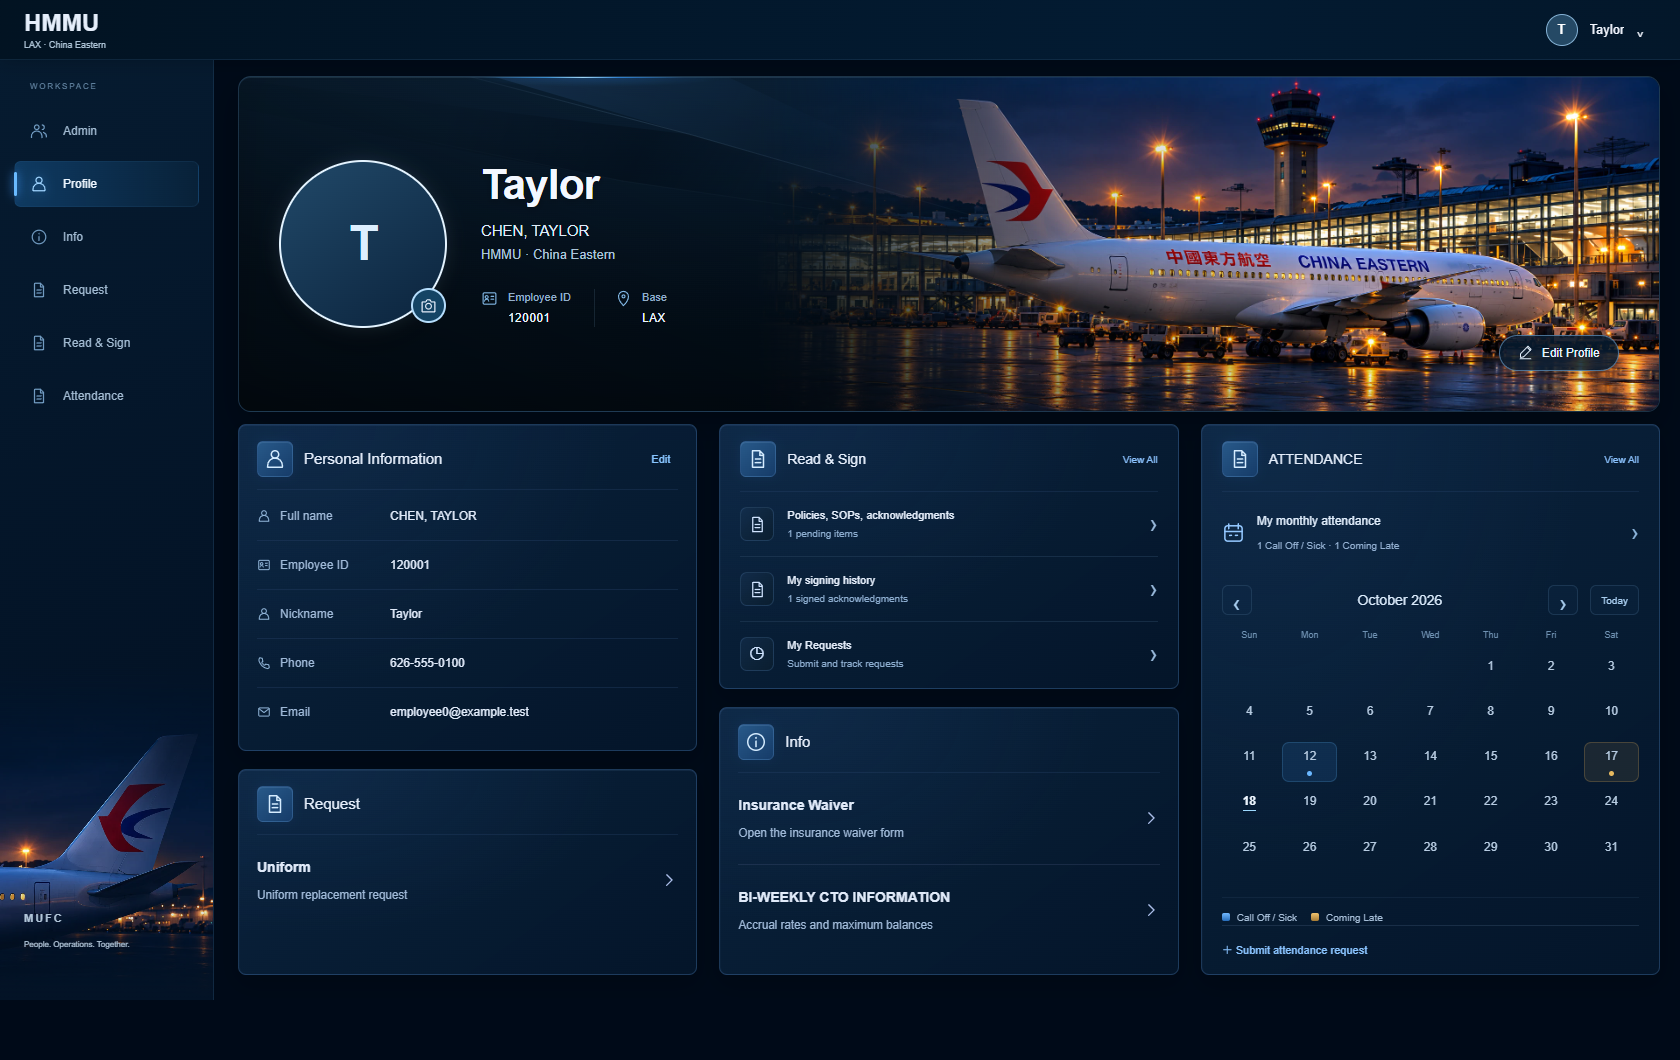
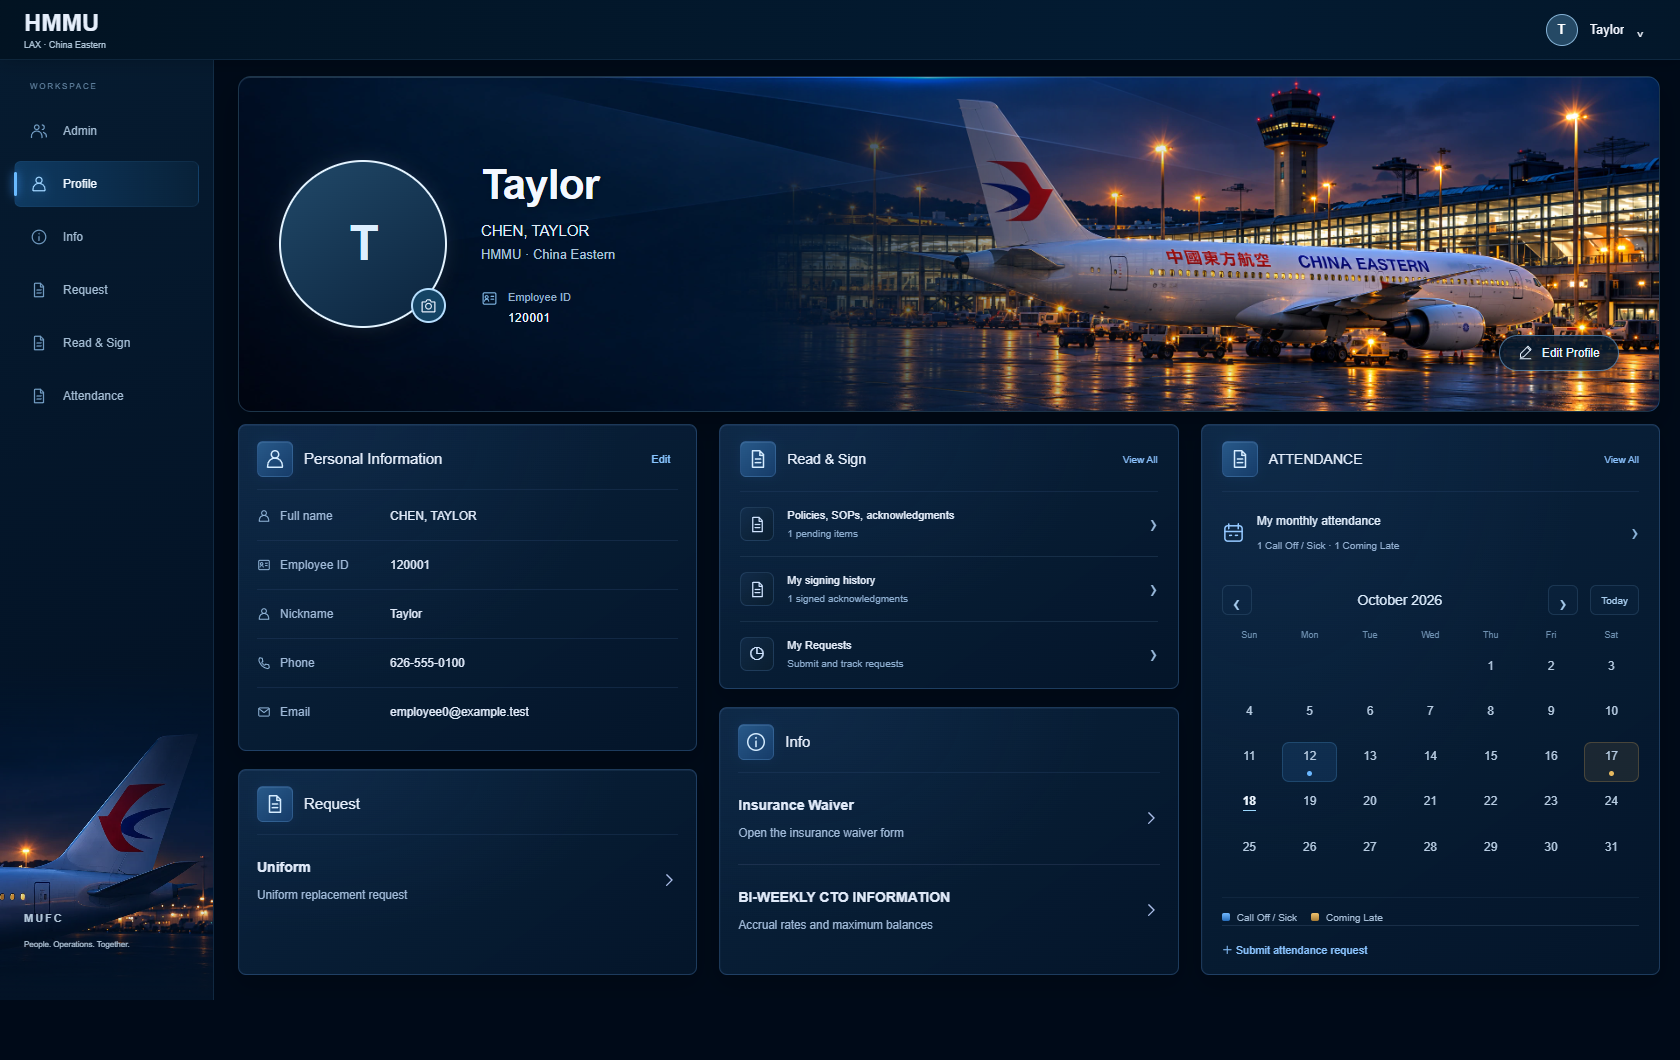
Allow own-stage uniform approvals and refine profile background

diff --git a/test/uniformRequests.test.js b/test/uniformRequests.test.js
@@ -8,7 +8,9 @@ test('server snapshots identity, LA date and flow; enforces sequential distinct 
 test('workflow is admin-only, versioned, ends with Manager and changes only new requests',t=>{const {store,users}=fixture(t),admin={email:'lake@mu.com'};const old=store.create(users[0],body());assert.throws(()=>store.saveWorkflow(users[1],{revision:1,stages:['Manager']}),e=>e.status===403);assert.throws(()=>store.saveWorkflow(admin,{revision:1,stages:['Lead']}),/ending/);assert.throws(()=>store.saveWorkflow(admin,{revision:0,stages:['Manager']}),e=>e.status===409);store.saveWorkflow(admin,{revision:1,stages:['Lead','Supervisor','Manager']});assert.deepEqual(store.get(old.id).stages,['Supervisor','Manager']);assert.deepEqual(store.create(users[0],body()).stages,['Lead','Supervisor','Manager']);});
 test('reject needs a reason; rejects malformed quantities and denies cross-employee reads',t=>{const {store,users}=fixture(t);let b=body();b.items[0].pieces=-1;assert.throws(()=>store.create(users[0],b),/Quantities/);b=body();b.items[0].size='';assert.throws(()=>store.create(users[0],b),/size/);b=body();b.items[0].pieces='';assert.throws(()=>store.create(users[0],b),/at least/);const r=store.create(users[0],body());assert.throws(()=>store.read(users[3],r.id),e=>e.status===403);assert.throws(()=>store.decide(users[1],r.id,{revision:1,action:'reject'}),/rejection reason/);assert.equal(store.decide(users[1],r.id,{revision:1,action:'reject',note:'Wrong size'}).status,'rejected');assert.equal(store.list(users[2]).requests.length,0);});
 test('positions persist through profile edits and invalid positions are rejected',async t=>{const {employees,profiles,users}=fixture(t);const revision=employees.get().revision;await profiles.update(users[2],{revision,phone:'6265551234'});assert.equal(employees.get().employees[2].position,'Manager');const data=employees.get();data.employees[0].position='Admin';assert.throws(()=>employees.save(data,{email:'lake@mu.com'}),/position/);});
-test('approvers cannot approve themselves or use multiple positions; final email is required',t=>{const {employees,store,users}=fixture(t);const own=store.create(users[1],body());assert.throws(()=>store.decide(users[1],own.id,{revision:1,action:'approve'}),e=>e.status===403);const r=store.create(users[0],body());store.decide(users[1],r.id,{revision:1,action:'approve'});let data=employees.get();data.employees[1].position='Manager';data.employees[2].companyEmail='';employees.save(data,{email:'lake@mu.com'});assert.throws(()=>store.decide(users[1],r.id,{revision:2,action:'approve'}),e=>e.status===403);assert.throws(()=>store.decide(users[2],r.id,{revision:2,action:'approve'}),/company email/);});
+test('approvers may approve their own assigned stage, but cannot repeat participation; final email is required',t=>{const {employees,store,users}=fixture(t);const own=store.create(users[1],body());assert.equal(store.read(users[1],own.id).canReview,true);assert.equal(store.decide(users[1],own.id,{revision:1,action:'approve'}).step,1);const r=store.create(users[0],body());store.decide(users[1],r.id,{revision:1,action:'approve'});let data=employees.get();data.employees[1].position='Manager';data.employees[2].companyEmail='';employees.save(data,{email:'lake@mu.com'});assert.throws(()=>store.decide(users[1],r.id,{revision:2,action:'approve'}),e=>e.status===403);assert.throws(()=>store.decide(users[2],r.id,{revision:2,action:'approve'}),/company email/);});
 test('HTTP auth, premature PDF protection, durable retry and approved original PDF',async t=>{const f=fixture(t),app=require('express')();let attempts=0;const service=registerUniform(app,{...f,authenticate:async req=>{const user=f.users.find(u=>req.headers.authorization==='Bearer '+u.uid);if(!user)throw Error('unauthorized');return user;},notify:async()=>{},send:async(r,pdf)=>{attempts++;assert.equal(r.manager.email,'manager@company.example.com');assert.equal(pdf.subarray(0,4).toString(),'%PDF');if(attempts===1)throw Error('offline');}});t.after(service.close);const server=app.listen(0,'127.0.0.1');await new Promise(r=>server.once('listening',r));t.after(()=>server.close());const base='http://127.0.0.1:'+server.address().port+'/uniform-api';const call=(path,who,body)=>fetch(base+path,{method:body?'POST':'GET',headers:{Authorization:'Bearer '+who,'Content-Type':'application/json'},...(body?{body:JSON.stringify(body)}:{})});assert.equal((await call('','bad')).status,401);assert.equal((await call('/workflow','e0')).status,403);let response=await call('','e0',body()),r=await response.json();assert.equal((await call('/'+r.id+'/pdf','e0')).status,409);await call('/'+r.id+'/decision','e1',{revision:1,action:'approve'});await call('/'+r.id+'/decision','e2',{revision:2,action:'approve'});await service.deliver(r.id).catch(()=>{});await service.deliver(r.id);assert.equal(attempts,2);await service.deliver(r.id);assert.equal(attempts,2);response=await call('/'+r.id+'/pdf','e2');assert.equal(response.status,200);const bytes=Buffer.from(await response.arrayBuffer());const pdf=await require('../vendor/pdf-lib/pdf-lib').PDFDocument.load(bytes);assert.equal(pdf.getPages().length,1);assert.equal(pdf.getPages()[0].getWidth(),612);assert.equal((await call('/'+r.id+'/pdf','e3')).status,403);});
 
 test('tie and scarf can be requested without garments and accept only bounded whole quantities',t=>{const {store,users}=fixture(t);const b=body();b.items[0]={size:'',pieces:'',order:'',reusable:'',nonReusable:''};b.tie=1;b.scarf=2;const r=store.create(users[0],b);assert.equal(r.tie,1);assert.equal(r.scarf,2);for(const value of [-1,100,1.5,'2'])assert.throws(()=>store.create(users[0],{...b,requestId:crypto.randomUUID(),tie:value}),/Tie and scarf/);});
+
+test('Manager can approve own request only after Supervisor review and appears in the route',t=>{const {store,users}=fixture(t);let r=store.create(users[2],body());assert.equal(r.canReview,false);assert.ok(r.approvalRoute[1].reviewers.some(p=>p.id==='e2'));assert.throws(()=>store.decide(users[2],r.id,{revision:1,action:'approve'}),e=>e.status===403);r=store.decide(users[1],r.id,{revision:1,action:'approve',note:'Supervisor checked'});const own=store.read(users[2],r.id);assert.equal(own.canReview,true);assert.ok(own.nextApprovers.some(p=>p.id==='e2'));r=store.decide(users[2],r.id,{revision:2,action:'approve',note:'Manager self approval'});assert.equal(r.status,'approved');assert.equal(r.manager.id,r.employee.id);assert.deepEqual(r.approvals.map(a=>a.note),['Supervisor checked','Manager self approval']);});

diff --git a/public/public/profile.html b/public/public/profile.html
@@ -1,6 +1,6 @@
 <!doctype html>
 <html lang="en"><head><meta charset="utf-8"><meta name="viewport" content="width=device-width,initial-scale=1"><title>MUFC · Profile</title>
-<link rel="stylesheet" href="/profile.css?v=20261018-header-sidebar"><link rel="stylesheet" href="/portal-cards.css?v=20261018-header-sidebar">
+<link rel="stylesheet" href="/profile.css?v=20261018-reference-background"><link rel="stylesheet" href="/portal-cards.css?v=20261018-header-sidebar">
 <script defer src="https://www.gstatic.com/firebasejs/10.12.2/firebase-app-compat.js"></script><script defer src="https://www.gstatic.com/firebasejs/10.12.2/firebase-auth-compat.js"></script><script defer src="/__/firebase/init.js"></script><script defer src="/employee-profile-api.js"></script><script defer src="/flight-account.js?v=20261017-profile-access"></script><script defer src="/employee-phone.js"></script><script defer src="/profile.js?v=20261017-profile-access"></script><link rel="stylesheet" href="/read-sign.css?v=20261018"><script defer src="/people-api.js?v=20261018"></script><script defer src="/attendance-calendar.js?v=20261018-calendar"></script><script defer src="/profile-modules.js?v=20261018"></script></head>
 <body class="profile-page">
 <svg class="profile-symbols" aria-hidden="true" xmlns="http://www.w3.org/2000/svg"><defs>
@@ -24,7 +24,7 @@
 <p id="profile-status" role="status" aria-live="polite">Loading your profile…</p>
 <section id="profile-link" class="profile-panel" hidden><h1>Link your employee record</h1><p>Enter your employee ID. If no record is found, please contact an administrator.</p><form id="profile-link-form"><label id="profile-eid-label">Employee ID / EID<input id="profile-eid" inputmode="numeric" pattern="[0-9]{1,12}" maxlength="12" required></label><dl id="profile-link-details"></dl><button class="profile-primary" type="submit">Find employee</button></form></section>
 <div id="profile-content" hidden>
-<section class="profile-hero" aria-label="Employee profile"><div class="profile-avatar-wrap"><img id="profile-avatar" alt="Your profile photo" hidden><span id="profile-initials" aria-hidden="true"></span><label class="avatar-edit" for="avatar-file" title="Change profile photo"><svg><use href="#icon-camera"/></svg><span class="sr-only">Change profile photo</span></label><input id="avatar-file" type="file" accept="image/png,image/jpeg,image/webp" hidden></div><div class="profile-identity"><h1 id="profile-display-name"></h1><p id="profile-full-name"></p><p class="profile-affiliation">HMMU · China Eastern</p><div class="profile-meta"><span><svg><use href="#icon-id"/></svg><span>Employee ID<strong id="profile-employee-id"></strong></span></span><span><svg><use href="#icon-pin"/></svg><span>Base<strong>LAX</strong></span></span></div></div><button type="button" class="profile-edit-link" id="edit-profile"><svg><use href="#icon-edit"/></svg>Edit Profile</button></section>
+<section class="profile-hero" aria-label="Employee profile"><div class="profile-avatar-wrap"><img id="profile-avatar" alt="Your profile photo" hidden><span id="profile-initials" aria-hidden="true"></span><label class="avatar-edit" for="avatar-file" title="Change profile photo"><svg><use href="#icon-camera"/></svg><span class="sr-only">Change profile photo</span></label><input id="avatar-file" type="file" accept="image/png,image/jpeg,image/webp" hidden></div><div class="profile-identity"><h1 id="profile-display-name"></h1><p id="profile-full-name"></p><p class="profile-affiliation">HMMU · China Eastern</p><div class="profile-meta"><span><svg><use href="#icon-id"/></svg><span>Employee ID<strong id="profile-employee-id"></strong></span></span></div></div><button type="button" class="profile-edit-link" id="edit-profile"><svg><use href="#icon-edit"/></svg>Edit Profile</button></section>
 <div class="profile-modules profile-dashboard"><div class="profile-personal-column"><section class="profile-panel personal-panel" aria-labelledby="personal-title"><div class="profile-panel-title"><span class="panel-icon"><svg><use href="#icon-person"/></svg></span><div><h2 id="personal-title">Personal Information</h2></div><button id="edit-personal" class="profile-text-button" type="button"><svg><use href="#icon-edit"/></svg>Edit</button></div>
 <dl class="profile-information"><div><dt><svg aria-hidden="true"><use href="#icon-person"/></svg>Full name </dt><dd id="view-full-name"></dd></div><div><dt><svg aria-hidden="true"><use href="#icon-id"/></svg>Employee ID <span>EID</span></dt><dd id="view-employee-id"></dd></div><div><dt><svg aria-hidden="true"><use href="#icon-person"/></svg>Nickname </dt><dd id="view-nickname"></dd></div><div><dt><svg aria-hidden="true"><use href="#icon-phone"/></svg>Phone </dt><dd id="view-phone"></dd></div><div class="information-email"><dt><svg aria-hidden="true"><use href="#icon-mail"/></svg>Email </dt><dd id="view-email"></dd></div></dl>
 

diff --git a/uniformRequests.js b/uniformRequests.js
@@ -14,12 +14,12 @@ function createUniformStore({employees,profiles,now=()=>new Date()}){
  const employee=user=>{const row=profiles.linked(user);if(!row)fail('Link your employee profile first.',403);return row;};
  const get=id=>{const row=db.prepare('SELECT data FROM uniform_requests WHERE id=?').get(id);if(!row)fail('Request not found.',404);return JSON.parse(row.data);};
  const put=r=>{db.prepare('UPDATE uniform_requests SET data=? WHERE id=?').run(JSON.stringify(r),r.id);return r;};
- const canReview=(r,e)=>r.status==='pending'&&r.stages[r.step]===e.position&&r.employee.id!==e.id&&!r.approvals.some(a=>a.employeeId===e.id);
+ const canReview=(r,e)=>r.status==='pending'&&r.stages[r.step]===e.position&&!r.approvals.some(a=>a.employeeId===e.id);
  const visible=(r,e)=>r.employee.id===e.id||canReview(r,e)||r.approvals.some(a=>a.employeeId===e.id)||r.manager?.id===e.id;
- const route=(stages,ownerId,approvals=[])=>stages.map(position=>({position,reviewers:employees.get().employees.filter(p=>p.name&&p.position===position&&p.id!==ownerId&&!approvals.some(a=>a.employeeId===p.id)).map(({id,name,position})=>({id,name,position}))}));
- const view=(r,e)=>({...r,approvalRoute:route(r.stages,r.employee.id,r.approvals),nextApprovers:r.status==='pending'?employees.get().employees.filter(person=>canReview(r,person)).map(({id,name,position})=>({id,name,position})):[],canReview:canReview(r,e),delivery: r.status==='approved'?(db.prepare('SELECT delivered FROM uniform_requests WHERE id=?').get(r.id).delivered?'sent':'pending'):undefined});
+ const route=(stages,approvals=[])=>stages.map(position=>({position,reviewers:employees.get().employees.filter(p=>p.name&&p.position===position&&!approvals.some(a=>a.employeeId===p.id)).map(({id,name,position})=>({id,name,position}))}));
+ const view=(r,e)=>({...r,approvalRoute:route(r.stages,r.approvals),nextApprovers:r.status==='pending'?employees.get().employees.filter(person=>canReview(r,person)).map(({id,name,position})=>({id,name,position})):[],canReview:canReview(r,e),delivery: r.status==='approved'?(db.prepare('SELECT delivered FROM uniform_requests WHERE id=?').get(r.id).delivered?'sent':'pending'):undefined});
  return {db,workflow,employee,get,canReview,
-  list(user){const e=employee(user);return {position:e.position||'Agent',workflow:workflow(),approvalRoute:route(workflow().stages,e.id),requests:db.prepare('SELECT data FROM uniform_requests ORDER BY rowid DESC').all().map(row=>JSON.parse(row.data)).filter(r=>visible(r,e)).map(r=>view(r,e))};},
+  list(user){const e=employee(user);return {position:e.position||'Agent',workflow:workflow(),approvalRoute:route(workflow().stages),requests:db.prepare('SELECT data FROM uniform_requests ORDER BY rowid DESC').all().map(row=>JSON.parse(row.data)).filter(r=>visible(r,e)).map(r=>view(r,e))};},
   read(user,id){const e=employee(user),r=get(id);if(!visible(r,e))fail('Request access denied.',403);return view(r,e);},
   saveWorkflow:db.transaction((user,body)=>{if(!ADMIN_EMAILS.has(user.email.toLowerCase()))fail('Administrator access required.',403);const current=workflow();if(body.revision!==current.revision)fail('Workflow changed. Reload before saving.',409);const stages=body.stages;if(!Array.isArray(stages)||!stages.length||stages.length>5||stages.at(-1)!=='Manager'||stages.some(s=>!POSITIONS.includes(s))||stages.some((s,i)=>i&&stages[i-1]===s))fail('Choose 1–5 approval stages, ending with Manager, without adjacent duplicate positions.');const next={revision:current.revision+1,stages,updatedAt:now().toISOString(),updatedBy:user.email};db.prepare('UPDATE uniform_workflow SET data=? WHERE id=1').run(JSON.stringify(next));return next;}),
   create:db.transaction((user,body)=>{const e=employee(user);if(!e.name||!e.eid||!e.phone)fail('Complete your full name, employee ID and phone number in Profile first.');if(!/^[0-9a-f-]{36}$/i.test(body.requestId||''))fail('Invalid request reference.');const prior=db.prepare('SELECT data FROM uniform_requests WHERE id=?').get(body.requestId);if(prior){const r=JSON.parse(prior.data);if(r.employee.id!==e.id)fail('Request reference already used.',409);return view(r,e);}

diff --git a/public/public/profile.css b/public/public/profile.css
@@ -80,7 +80,7 @@ body.profile-page{background:#000a18;color:#e5eefb;--profile-border:#294b6c70;--
 
 /* Match the reference's identity scale and softly lit glass planes. */
 @media(min-width:761px){
- .profile-hero{height:clamp(280px,20vw,390px);min-height:0;max-height:none;aspect-ratio:auto;padding:clamp(26px,2.4vw,46px);gap:clamp(24px,2vw,40px);background:radial-gradient(ellipse at 32% -30%,#16385b70,transparent 58%),linear-gradient(145deg,#061726,#010a13 80%)}
+ .profile-hero{height:clamp(280px,20vw,390px);min-height:0;max-height:none;aspect-ratio:auto;padding:clamp(26px,2.4vw,46px);gap:clamp(24px,2vw,40px)}
  .profile-avatar-wrap{width:clamp(160px,10vw,196px);height:clamp(160px,10vw,196px)}
  .profile-identity h1{font-size:clamp(36px,2.5vw,48px);line-height:1.12;letter-spacing:-.8px;margin-bottom:12px}
  .profile-identity>p:not(.profile-eyebrow){font-size:15px;line-height:1.5}
@@ -88,5 +88,6 @@ body.profile-page{background:#000a18;color:#e5eefb;--profile-border:#294b6c70;--
  .profile-meta{margin-top:24px}
  .profile-hero:after{inset:0 0 0 auto;width:auto;max-width:none;height:100%;aspect-ratio:2060/763;background-size:100% 100%;background-position:right center;mask-image:linear-gradient(90deg,transparent,#0005 15%,#000c 35%,#000 60%);-webkit-mask-image:linear-gradient(90deg,transparent,#0005 15%,#000c 35%,#000 60%)}
 }
-.profile-hero:before{background:linear-gradient(90deg,transparent,#3388d0 32%,#a4dcff 50%,#287cd2 68%,transparent) 20% 0/200px 1px no-repeat,radial-gradient(ellipse 130px 10px at 25% 0,#287ad044,transparent),url('/assets/profile-glass-layers.svg?v=2') left top/72% 100% no-repeat,linear-gradient(20deg,#0008,transparent 58%);box-shadow:inset 0 1px #a0c8e510,inset 0 -24px 40px #0002}
-@media(max-width:760px){.profile-hero:before{background-size:140px 1px,auto,140% 100%,auto}}
+/* Reference-derived material plate preserves broad glass faces and their reflected light. */
+.profile-hero{background:#03101b url('/assets/profile-glass-reference-v3.webp') left top/100% 100% no-repeat}
+.profile-hero:before{background:none;box-shadow:inset 0 1px #bce2ff18}

diff --git a/docs/profile-background-reference.md b/docs/profile-background-reference.md
@@ -1,0 +1,9 @@
+# Profile glass background
+
+Generated with the built-in image generation tool using the supplied glass-canopy screenshot as the material reference and `profile-ce777-night-v10.webp` as the airport scenery reference. The existing aircraft photograph remains a separate CSS layer. No employee identity, avatar or text is generated into the background.
+
+Asset: `public/public/assets/profile-glass-reference-v3.webp` (2172 × 724). The generated PNG was converted to WebP at quality 94.
+
+## Final prompt
+
+Use case: precise-object-edit / compositing. Asset type: production clean background plate for an employee profile hero. Image 1 is the EXACT material/style/composition reference and edit target. Image 2 is supporting airport scenery reference only. Reconstruct the background underneath ALL foreground elements in image 1: remove the portrait circle, person, every word, every letter, every icon, all buttons, all dividers and all UI chrome. Preserve and faithfully reproduce the original premium deep navy translucent architectural glass canopy material: two substantial overlapping faceted glass planes angled from upper left/upper middle down toward the right, subtle optical depth, softly illuminated blue upper plane, fine natural rim reflections, a very small electric blue light bloom along the upper border near the center-left, lower-left near-black navy. The original planes have real broad dimensional faces, NOT long parallel drawn lines, NOT striped wallpaper, NOT an X pattern, NOT a featureless black gradient. Through the right half of this blue glass, let the warm lit airport terminal architecture and night apron lights be visible softly, matching image 1. Use image 2 only for realistic terminal structure/color continuity. Make this an elegant seamless full-bleed panoramic background plate, about 3:1 aspect ratio, high resolution. Keep left 45% dark and quiet enough for live profile text; include perceptible glass facets even there. Across the right half include softly visible terminal windows and sparse warm lights. No new aircraft in this background plate (the existing airplane photo will be a separate webpage layer). No foreground person, portrait/avatar placeholder, name, Employee ID, role, badge, controls, borders, watermark, logos, legible text, letters, or diagram outlines anywhere. The output must be the CLEAN BACKGROUND ALONE, never a UI screenshot. Match the actual material of image 1 as closely as possible, not the previous line-drawing approximation.

diff --git a/docs/read-sign-attendance.md b/docs/read-sign-attendance.md
@@ -20,7 +20,7 @@ Deploy both the backend and Firebase Hosting assets together. New tables are cre
 
 ## Uniform OA tracking
 
-The Request page first asks for a request type; Request Uniform expands the form. Beneath Submit request, a progress section previews eligible reviewers before submission and tracks the latest submitted request, its current stage, named next reviewers and all approval notes after submission. Refresh status reloads that same saved request; the records list remains available below. The existing workflow remains versioned and starts with Supervisor then Manager by default. The request displays its submission, each stage, named eligible next approvers, timestamps, approval or rejection, and decision notes. Rejection requires a reason. Future workflow edits still apply only to new requests. Self-approval, repeated participation and stale-revision decisions remain blocked. An empty approver list is shown explicitly so an administrator can correct staffing rather than silently skipping a stage. Existing final Manager PDF and email behavior is preserved.
+The Request page first asks for a request type; Request Uniform expands the form. Beneath Submit request, a progress section previews eligible reviewers before submission and tracks the latest submitted request, its current stage, named next reviewers and all approval notes after submission. Refresh status reloads that same saved request; the records list remains available below. The existing workflow remains versioned and starts with Supervisor then Manager by default. The request displays its submission, each stage, named eligible next approvers, timestamps, approval or rejection, and decision notes. Rejection requires a reason. Future workflow edits still apply only to new requests. Requesters may approve their own request when their current stored position matches the current approval stage. Repeated participation across stages and stale-revision decisions remain blocked. An empty approver list is shown explicitly so an administrator can correct staffing rather than silently skipping a stage. Existing final Manager PDF and email behavior is preserved.
 
 ## Attendance records
 
